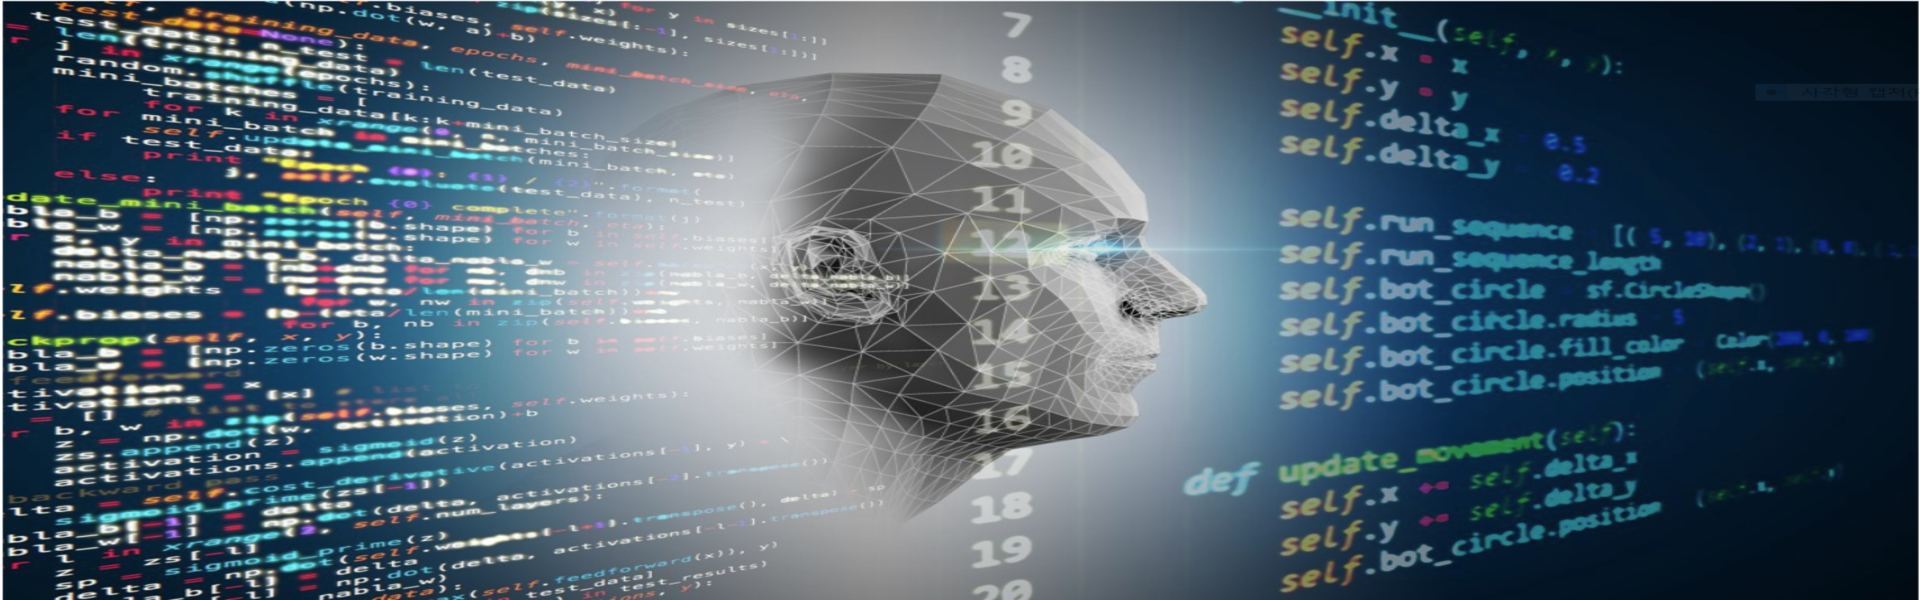
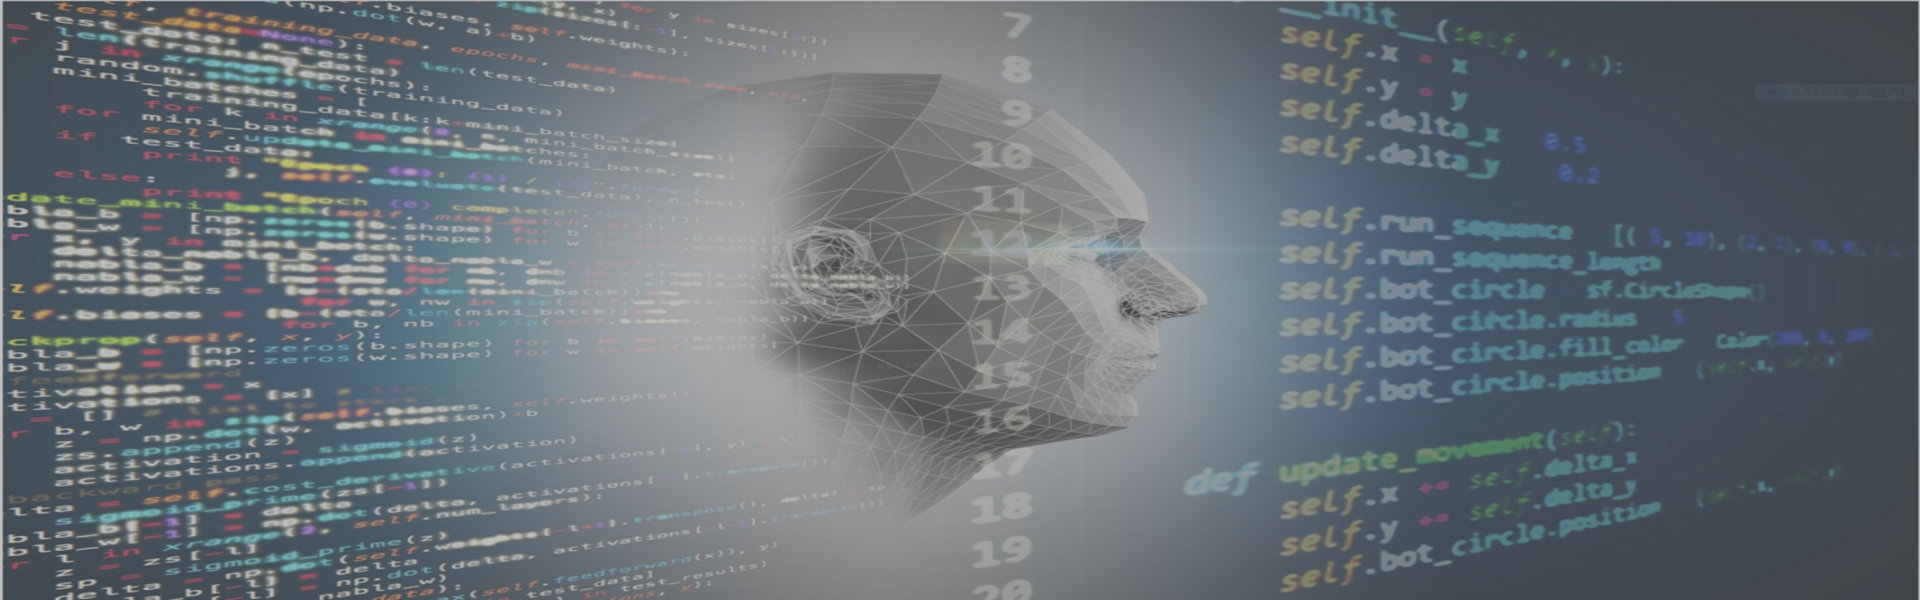
220203_slider_change

diff --git a/index.html b/index.html
@@ -28,11 +28,11 @@ canonical: https://heliumjk.github.io
                     <div class="carousel-caption">
                       <h3 class="slide-title animated fadeInDown">Hyper Intelligent Media Network Platform Lab</h3>
                       <h4 class="slide-text animated fadeIn" id="m_slide-text">
-                        Our lab is dedicated to research with passion for
+                        Next Generation Cloud Computing
                         <br>
-                        Artificial Intelligence/Network. 
+                        Intelligent Edge Computing
                         <br>
-                        We will try to conduct meaningful research to help society.
+                        QoS/QoE Methodologies based on Hyper-intelligence Technology
                       </h4>
                       
                     </div>
@@ -42,25 +42,21 @@ canonical: https://heliumjk.github.io
                     <div class="carousel-caption">
                       <h3 class="slide-title animated fadeInDown">Hyper Intelligent Media Network Platform Lab</h3>
                       <h4 class="slide-text animated fadeIn" id="m_slide-text">
-                        Our lab is dedicated to research with passion for
+                        Reinforcement, Federated and Self-supervised Learning
                         <br>
-                        Artificial Intelligence/Network. 
-                        <br>
-                        We will try to conduct meaningful research to help society.
+                        Artificial Intelligence-based Energy Data Generation and Augmented Model Study
                       </h4>
                       
                     </div>
                   </div>
                   <div class="carousel-item">
-                    <img src="assets/images/slider/스크린3.jpg" alt="">
+                    <img src="assets/images/slider/스크린3.png" alt="">
                     <div class="carousel-caption">
                       <h3 class="slide-title animated fadeInDown">Hyper Intellient Media Network Platform Lab</h3>
                       <h4 class="slide-text animated fadeIn" id="m_slide-text">
-                        Our lab is dedicated to research with passion for
+                        Smart Factory, Smart Farm
                         <br>
-                        Artificial Intelligence/Network. 
-                        <br>
-                        We will try to conduct meaningful research to help society.
+                        Establishment and Development of AI Convergence System
                       </h4>
                       
                     </div>
